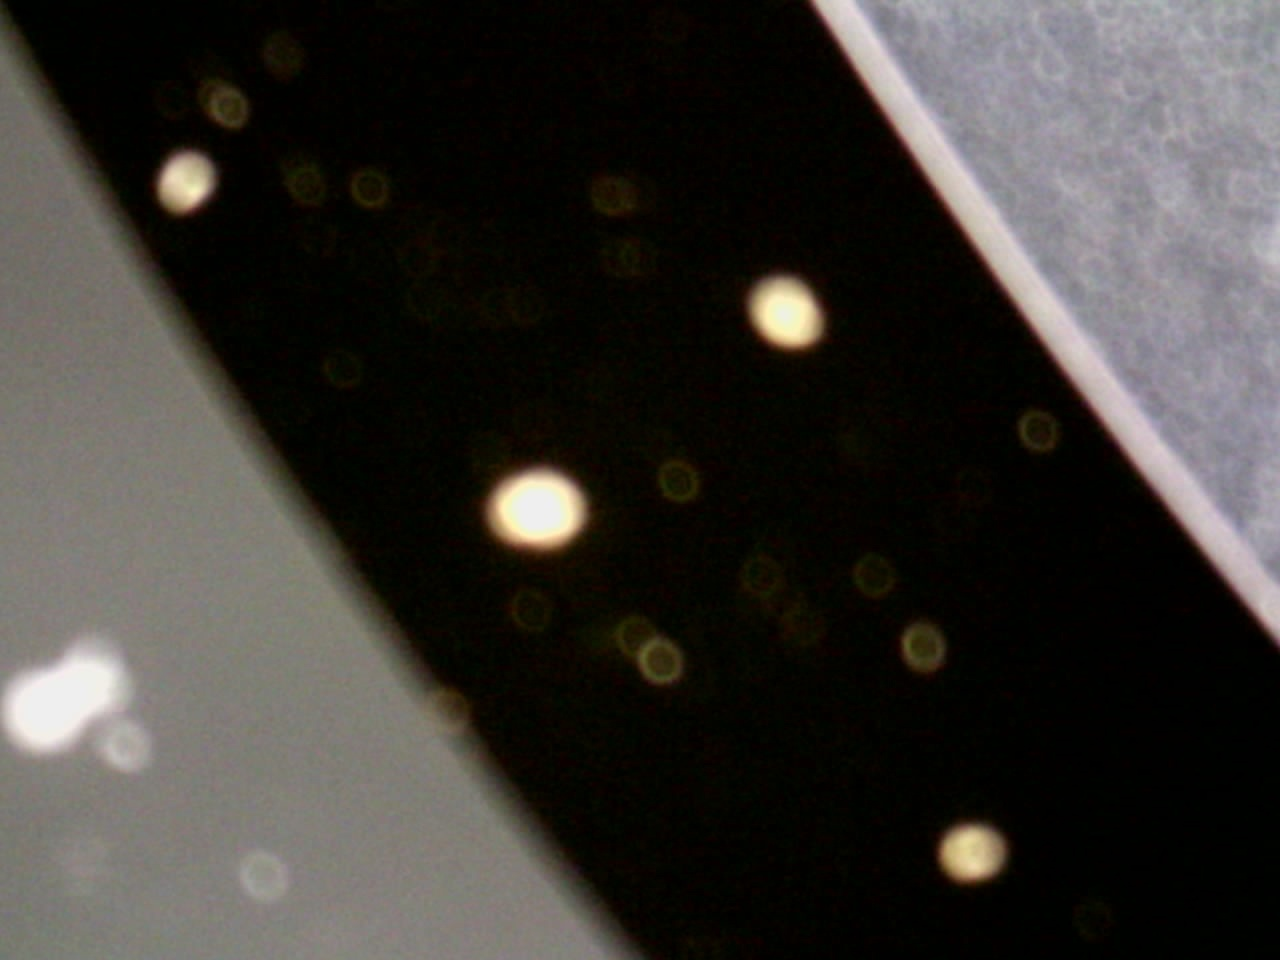
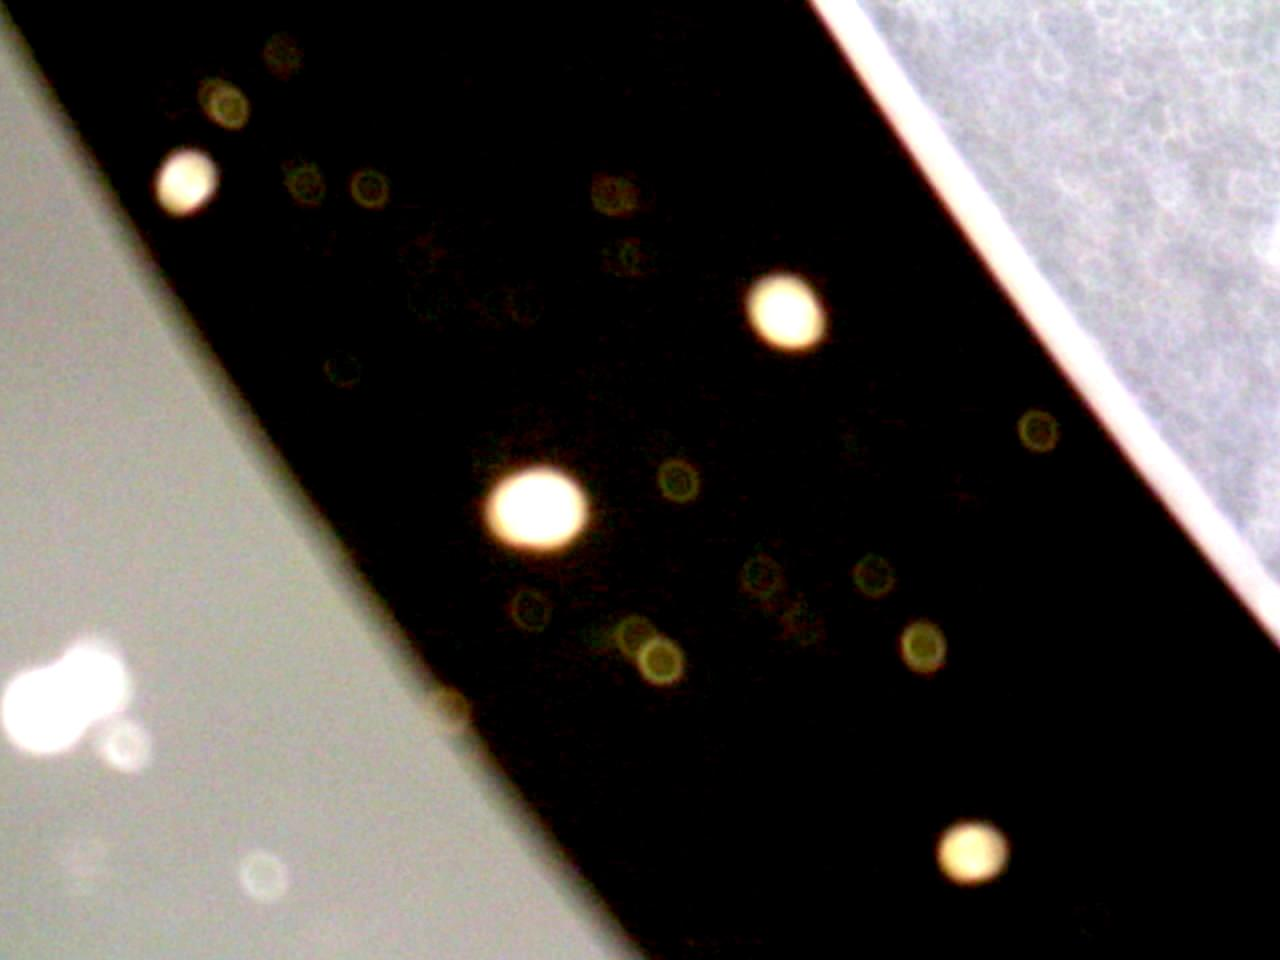
experimental corrections

diff --git a/SensorQualityControl/src/io/corrections.py b/SensorQualityControl/src/io/corrections.py
@@ -1,0 +1,70 @@
+from PIL import Image, ImageEnhance
+import os
+from glob import glob
+
+# Directory containing images
+image_directory = r'C:\Users\paulm\dev\SensorQC\SensorQualityControl\content\images\raw_images'
+
+
+def gamma_correction(image, gamma=1.2):
+    # Apply gamma correction
+    inv_gamma = 1.0 / gamma
+    lut = [int((i / 255.0) ** inv_gamma * 255) for i in range(256)]
+    return image.point(lut * 3)
+
+
+def adjust_brightness_contrast(image, brightness=1.2, contrast=1.2):
+    # Adjust brightness
+    enhancer = ImageEnhance.Brightness(image)
+    image = enhancer.enhance(brightness)
+
+    # Adjust contrast
+    enhancer = ImageEnhance.Contrast(image)
+    image = enhancer.enhance(contrast)
+
+    return image
+
+
+def white_balance(image):
+    # Simple white balance by equalizing the histogram
+    image = ImageEnhance.Color(image).enhance(1.2)  # Slight color boost
+    return image
+
+
+def process_and_display_images(image_path):
+    # Load the original image
+    original_image = Image.open(image_path)
+
+    # Apply preprocessing steps to create a modified version
+    modified_image = adjust_brightness_contrast(original_image.copy())
+    modified_image = gamma_correction(modified_image)
+    modified_image = white_balance(modified_image)
+
+    # Create a new blank image to combine both original and modified images side-by-side
+    combined_width = original_image.width + modified_image.width
+    combined_height = max(original_image.height, modified_image.height)
+    combined_image = Image.new("RGB", (combined_width, combined_height))
+
+    # Paste the original and modified images onto the combined image
+    combined_image.paste(original_image, (0, 0))
+    combined_image.paste(modified_image, (original_image.width, 0))
+
+    # Display the combined image
+    combined_image.show(title="Original vs Modified")
+    print(f"Displayed original and modified image for {image_path}")
+
+    # Wait for user input before proceeding to the next image
+    input("Press Enter to proceed to the next image...")
+
+    # Save the modified image back to the same path
+    modified_image.save(image_path)
+
+
+# Process each image in the directory
+image_paths = glob(os.path.join(image_directory, '*.jpg')
+                   )  # Adjust extension as needed
+
+for image_path in image_paths:
+    process_and_display_images(image_path)
+
+print("All images in the directory have been processed, displayed, and saved.")

diff --git a/SensorQualityControl/src/io/controls.py b/SensorQualityControl/src/io/controls.py
@@ -54,13 +54,16 @@ class Controls:
         print(f"Exposure: {scope.get_exposure()}")
         if key == "w" and not self.__axis_state__["Y"]:
             self.__axis_state__["Y"] = True
-            threading.Thread(target=self.move_up, args=(Y_STEP,), daemon=True).start()
+            threading.Thread(target=self.move_up, args=(
+                Y_STEP,), daemon=True).start()
         elif key == "s" and not self.__axis_state__["Y"]:
             self.__axis_state__["Y"] = True
-            threading.Thread(target=self.move_down, args=(Y_STEP,), daemon=True).start()
+            threading.Thread(target=self.move_down, args=(
+                Y_STEP,), daemon=True).start()
         elif key == "a" and not self.__axis_state__["X"]:
             self.__axis_state__["X"] = True
-            threading.Thread(target=self.move_left, args=(X_STEP,), daemon=True).start()
+            threading.Thread(target=self.move_left, args=(
+                X_STEP,), daemon=True).start()
         elif key == "d" and not self.__axis_state__["X"]:
             self.__axis_state__["X"] = True
             threading.Thread(
@@ -68,10 +71,12 @@ class Controls:
             ).start()
         elif key == "q" and not self.__axis_state__["Z"]:
             self.__axis_state__["Z"] = True
-            threading.Thread(target=self.zoom_in, args=(Z_STEP,), daemon=True).start()
+            threading.Thread(target=self.zoom_in, args=(
+                Z_STEP,), daemon=True).start()
         elif key == "e" and not self.__axis_state__["Z"]:
             self.__axis_state__["Z"] = True
-            threading.Thread(target=self.zoom_out, args=(Z_STEP,), daemon=True).start()
+            threading.Thread(target=self.zoom_out, args=(
+                Z_STEP,), daemon=True).start()
 
     def key_release(self, key):
         if key == "w" or key == "s":
@@ -112,7 +117,8 @@ class Controls:
         keyboard.on_release_key("d", lambda e: self.key_release("d"))
         keyboard.on_release_key("q", lambda e: self.key_release("q"))
         keyboard.on_release_key("e", lambda e: self.key_release("e"))
-        keyboard.on_press_key("enter", lambda e: self.__robot__.get_absolute_position())
+        keyboard.on_press_key(
+            "enter", lambda e: self.__robot__.get_absolute_position())
         keyboard.on_press_key("z", lambda e: self.__camera__.toggle_camera())
 
         keyboard.on_press_key("r", lambda e: self.__microscope__.led_off())

diff --git a/SensorQualityControl/src/io/dino_lite_edge.py b/SensorQualityControl/src/io/dino_lite_edge.py
@@ -1,3 +1,8 @@
+from PIL import Image, ImageEnhance
+import matplotlib.pyplot as plt
+from skimage.transform import warp, AffineTransform
+from skimage import io, color
+import os
 import importlib
 import math
 import threading
@@ -6,6 +11,7 @@ import cv2
 from DNX64 import *
 import numpy as np
 import signal
+from scipy.ndimage import gaussian_filter1d
 
 DNX64_PATH = "C:\\Program Files\\DNX64\\DNX64.dll"
 # Global variables
@@ -283,3 +289,8 @@ class Camera:
 
 if __name__ == "__main__":
     cam = Camera(debug=True)
+    # cam.capture_image('test_image')
+    # im = cv2.imread(r'C:\Users\paulm\dev\SensorQC\test_image.jpg')
+    # cam.vingeting_correction(im)
+    # cv2.imshow(im)
+    # # cam.capture_image('test_image')
